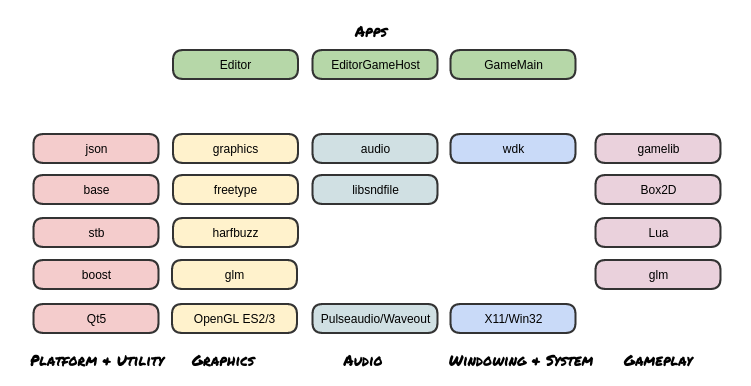
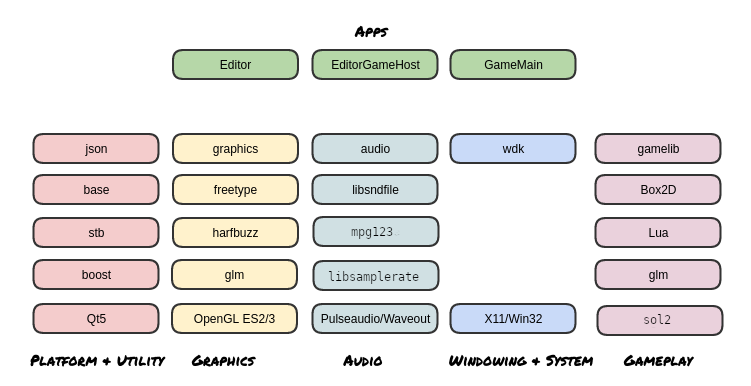
Update the readme and the screenshots
Update the readme and the screenshots.

Changed region(s): [[0.3981, 0.5596, 0.6125, 0.7772], [0.7963, 0.7772, 0.98, 0.8705]]

diff --git a/README.md b/README.md
@@ -1,40 +1,35 @@
 Ensisoft Gamestudio
 ===================
 
-A 2D game engine and editor.
+A 2D game engine and editor for Linux and Windows.
 
 ![Screenshot](screens/bandit-play.gif "Bandit demo")
 
 Currently supported major features.
-* Qt5 based editor for building graphics assets
-  * Separate workspaces for project based work
-  * WYSIWYG editing for animations, materials, particle systems and custom polygon shapes
-  * Process isolated editor game playback
+* Qt5 based editor
 * Text rendering
-* Various primitive shapes rendering
+* Various primitive shapes, custom polygon shapes
 * Material system
 * Particle system
-* Animated entity system
-* Window integration (https://github.com/ensisoft/wdk)
-* Minimalistic audio engine
-* Lua based scripting support including built-in code editor
+* Entity system with animation tracks
+* Audio engine
+* Lua based scripting for entities, scenes and game logic
 * Scene builder
-* UI builder
-* Box2D based physics support
-* Win32 / Linux support (both for Editor and as game build target)
+* Styleable UI system
+* Box2D based physics
 * Demo content
+* Game content packaging
+* Window integration (https://github.com/ensisoft/wdk)
 
 Planned major features not yet implemented:
 * Android and/or HTML5 build target support (TBD)
 
 Planned minor features not yet implemented:
-* Audio mixer and engine side audio integration
-* Help/API documentation for the game Lua API.
 * Acceleration structures / scene queries / ray casting
 * Several other functional and performance improvements
-* Facilities for loading/saving game data/state from Lua
+* See issues for more details
 
-![Screenshot](screens/editor-animation.png "Animation editor")
+![Screenshot](screens/editor-animation.png "Entity editor")
 Create your animated game play characters in the entity editor. Each entity can contain an arbitrary render tree
 of nodes with various attachments for physics, rendering and text display. Animation tracks allow changing the properties
 of the nodes and transforming the tree itself over time. Each entity type can then be associated with a Lua script where
@@ -45,10 +40,23 @@ Create materials using the material editor by setting some properties for the pr
 Currently supports sprite animations, textures (including text and noise), gradient and color fills out of box.
 Custom shaders can be used too.
 
-![Screenshot](screens/editor-scene.png "Scene builder")
-Create the actual game scene using the scene editor. The entities you create in the entity editor are available here
+![Screenshot](screens/editor-scene.png "Scene editor")
+Create the game play scenes using the scene editor. The entities you create in the entity editor are available here
 for placing in the scene. Viewport visualization will quickly show you how much of the game world will be seen when
 the game plays.
+
+![Screenshot](screens/editor-ui.png "UI editor")
+Create the game's UI in the UI editor. The UI and the widgets can be styled using a JSON based style file and then individual widgets
+can have their style properties fine tuned in the editor. The style system integrates with the editor's material system too!
+
+![Screenshot](screens/editor-audio.png "Audio graph editor")
+Create audio graphs using the audio editor. Each audio graph can have a number of elements added to it. The graph then
+specifies the flow of audio PCM data from source elements to processing elements to finally to the graph output. Currently
+supported audio backends are Waveout on Windows and Pulseaudio on Linux. Supported formats are wav, mp3, ogg and flac.
+
+![Screenshot](screens/editor-script.png "Script editor")
+Use the built-in code editor to write the Lua scripts for the entities, scenes or for the game. The editor has a built-in
+help system for accessing the engine side Lua API documentation.
 
 ![Screenshot](screens/demo-bandit.png "Editor game play window")
 During the development the game is available for play in the editor. It's possible to do live edits to the
@@ -176,11 +184,11 @@ Going from a git clone to a running game is known as the "build workflow". This 
 involving the source tree of the engine, the source tree of the game, the runtime assets provided with the
 engine and the runtime assets that are part of the game. Overall this will involve several build and packaging steps.
 
-Currently only Lua based games are supported. There's a provided game engine that is be built into a shared library
+Currently only Lua based games are supported. There's a provided game engine that is built into a shared library
 and which contains all the relevant functionality for running a game. That is it will take care of rendering the scene,
 ticking the physics engine, handling the UI input as well as invoking the Lua scripts in order to run *your* game code.
 It's possible to also not use this provided engine but write a completely different engine. In this case the interface
-to implement is the "App" interface in engine/main/interface.h.
+to implement is the "Engine" interface in engine/main/interface.h.
 
 From source code to a running game:
 1. Build the whole project as outlined in the **Build Instructions** previously.
@@ -240,17 +248,17 @@ An overview of the runtime architecture:
 1. There's a standard game engine that is built into a shared library called GameEngine.dll or libGameEngine.so.
 2. A launcher application called GameMain will read a config.json file. The JSON file contains information about
    windowing, context creation etc.
-   1. The launcher application will load the engine library and create an Application object instance.
+   1. The launcher application will load the engine library and create an <Engine> object instance.
    2. The launcher application will create the native window system window and also create the Open GL rendering context
-      which it will then give to the app instance.
+      which it will then give to the engine instance.
 3. The launcher application will then enter the top-level game loop. Inside the loop it will:
-   1. Process any window system window events to handle pending keyboard/mouse etc. events and pass them to the app as needed.
-   2. Handle events coming from the app instance. These could be for example requests to toggle full screen mode.
+   1. Process any window system window events to handle pending keyboard/mouse etc. events and pass them to the engine as needed.
+   2. Handle events coming from the engine instance. These could be for example requests to toggle full screen mode.
    3. Accumulate and track time, call functions to Update, Tick and Draw the app instance.
 
 Inside the game engine the following will take place.
 1. The various subsystems are updated and ticked. These include physics, audio, scripting etc.
-2. The renderer is used to draw the current background and foreground scenes.
+2. The renderer is used to draw the current scene.
 3. The engine will handle the input events (mouse, keyboard) coming from the host process and choose the appropriate action.
    For example If a UI is being shown the input is passed to the UI subsystem. The inputs are then also passed to the
    game scripting system and ultimately to your game's Lua scripts.
